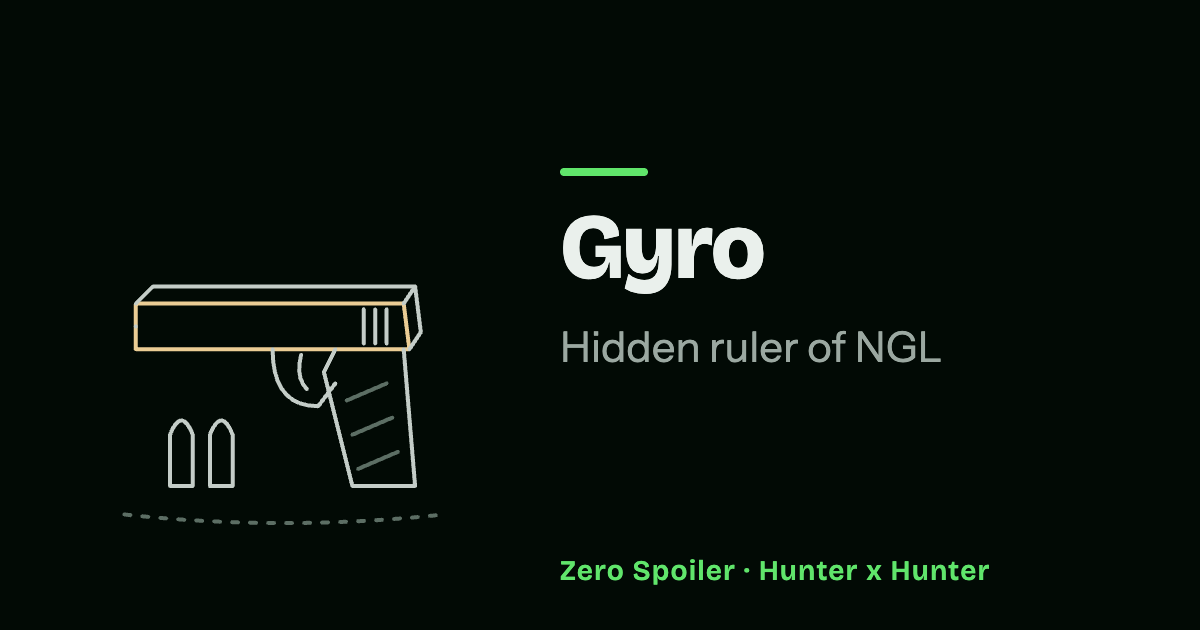
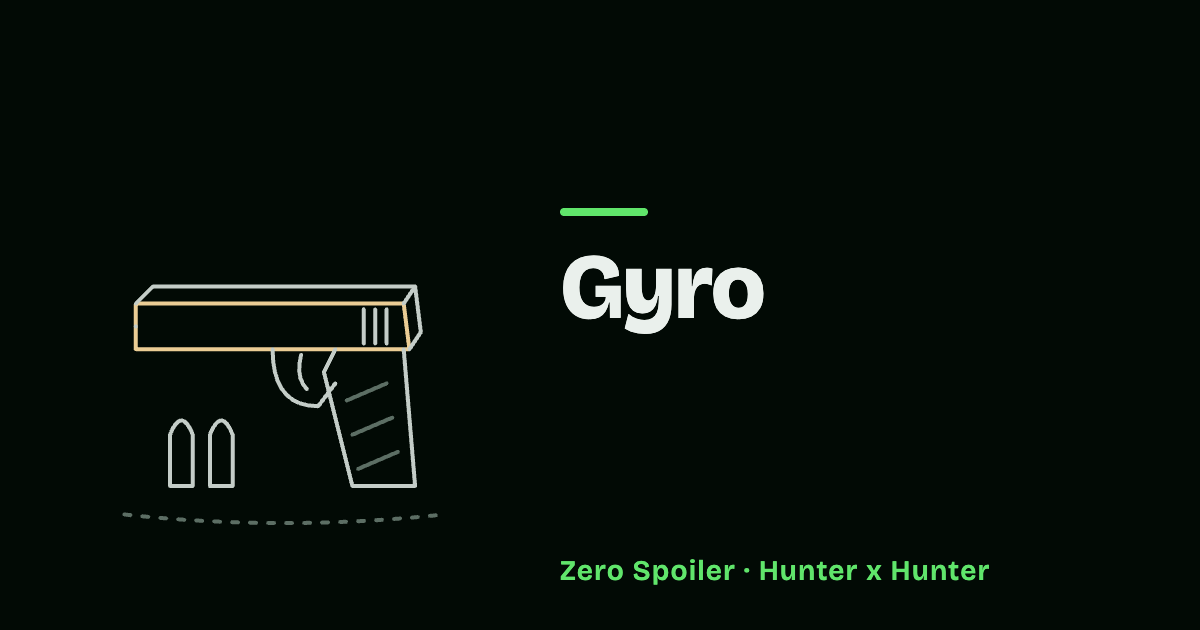
fix(hunter-x-hunter): open Gyro's anime facts at the episode that tells them (#1246)

Changed region(s): [[0.4625, 0.3317, 0.7708, 0.573], [0.4625, 0.2413, 0.555, 0.3016]]

diff --git a/src/data/series/hunter-x-hunter/records/chimera-ant-hunters.ts b/src/data/series/hunter-x-hunter/records/chimera-ant-hunters.ts
@@ -572,7 +572,11 @@ export const CHIMERA_ANT_HUNTERS: Pick<HunterSaga, 'dossiers' | 'entries'> = {
     },
     // The gunmen name him as their king in episode 78, which the anime
     // invents; the manga's caption names him as NGL's kingpin in chapter 203.
-    // The frozen texts keep to what both tell.
+    // The frozen texts keep to episode 78's gunmen, which the manga's kingpin
+    // of a gun-running cartel (chapters 192, 203) does not contradict, and
+    // name no country. Episode 78 never ties him to
+    // NGL: the anime does so in his past, episode 80 (chapter 204's story),
+    // so the NGL role and affiliation wait there for an episode reader.
     'gyro': {
       chronicle: chimeraAntPhase2Chronicles.gyro,
       relationships: [
@@ -594,22 +598,34 @@ export const CHIMERA_ANT_HUNTERS: Pick<HunterSaga, 'dossiers' | 'entries'> = {
           ],
         },
       ],
-      role: { it: 'Capo nascosto di NGL', en: 'Hidden ruler of NGL' },
+      role: [
+        {
+          episode: 78,
+          chapter: 203,
+          value: { it: 'Capo degli uomini armati', en: 'Leader of the gunmen' },
+        },
+        {
+          episode: 78,
+          chapter: 203,
+          source: 'chapter',
+          value: { it: 'Capo nascosto di NGL', en: 'Hidden ruler of NGL' },
+        },
+        {
+          episode: 80,
+          chapter: 204,
+          source: 'episode',
+          value: { it: 'Capo nascosto di NGL', en: 'Hidden ruler of NGL' },
+        },
+      ],
       log: {
-        it: 'Gli uomini armati di NGL prendevano ordini da lui.',
-        en: 'NGL’s gunmen took their orders from him.',
+        it: 'I suoi uomini armati prendevano ordini da lui.',
+        en: 'His gunmen took their orders from him.',
       },
       // Episode 79's commander found dead at his desk is tied to him only by
       // the wiki's link, and the manga has him reborn as an ant, so no death
       // is filed until an owner check of the episode settles it.
       status: [{ episode: 78, chapter: 203, value: 'alive' }],
       affiliation: [
-        {
-          episode: 78,
-          chapter: 203,
-          source: 'episode',
-          value: { it: 'NGL', en: 'NGL' },
-        },
         // The manga alone, at its gate: eaten by the Queen, reborn as one of
         // her soldiers, he keeps his memories and leaves the nest.
         {
@@ -620,6 +636,12 @@ export const CHIMERA_ANT_HUNTERS: Pick<HunterSaga, 'dossiers' | 'entries'> = {
             it: 'Formichimera che ha lasciato la regina',
             en: 'Chimera Ant who left the Queen',
           },
+        },
+        {
+          episode: 80,
+          chapter: 204,
+          source: 'episode',
+          value: { it: 'NGL', en: 'NGL' },
         },
       ],
     },
@@ -748,8 +770,8 @@ export const CHIMERA_ANT_HUNTERS: Pick<HunterSaga, 'dossiers' | 'entries'> = {
       unanchored: true,
       name: { it: 'Giairo', en: 'Gyro' },
       summary: {
-        it: 'Il capo nascosto di NGL, i cui uomini armati hanno affrontato le formichimere.',
-        en: 'NGL’s hidden ruler, whose armed men took on the Chimera Ants.',
+        it: 'Un capo i cui uomini armati hanno affrontato le formichimere.',
+        en: 'A leader whose gunmen took on the Chimera Ants.',
       },
       visual: { art: 'gyro', tint: 'sand' },
     },

diff --git a/src/server/archive/chimeraAnt.test.ts b/src/server/archive/chimeraAnt.test.ts
@@ -548,13 +548,38 @@ const PHASE_TWO_STEPS: Step[] = [
     chapter: 200,
     value: 'alive',
   },
+  // Episode 78 never ties him to NGL; his past at episode 80 does (#1234).
   {
     id: 'gyro',
     field: 'affiliation',
+    episode: 80,
+    chapter: 204,
+    only: 'episode',
+    value: { it: 'NGL', en: 'NGL' },
+  },
+  {
+    id: 'gyro',
+    field: 'role',
     episode: 78,
     chapter: 203,
     only: 'episode',
-    value: { it: 'NGL', en: 'NGL' },
+    value: { it: 'Capo degli uomini armati', en: 'Leader of the gunmen' },
+  },
+  {
+    id: 'gyro',
+    field: 'role',
+    episode: 80,
+    chapter: 204,
+    only: 'episode',
+    value: { it: 'Capo nascosto di NGL', en: 'Hidden ruler of NGL' },
+  },
+  {
+    id: 'gyro',
+    field: 'role',
+    episode: 78,
+    chapter: 203,
+    only: 'chapter',
+    value: { it: 'Capo nascosto di NGL', en: 'Hidden ruler of NGL' },
   },
   {
     id: 'gyro',
@@ -1423,6 +1448,28 @@ describe.each(
     })
   },
 )
+
+/** Gyro's whole page for an episode reader, as one string. */
+function gyroAt(episode: number, locale: Locale): string {
+  const reader = readerFor(archive, at('episode', episode), locale)
+
+  expect(opened('gyro', false, reader)).toBe(true)
+
+  return JSON.stringify(characterPage('gyro', reader))
+}
+
+describe('Gyro before the anime ties him to NGL', () => {
+  // Episode 78 tells only his gunmen; his past at episode 80 makes him NGL's
+  // ruler (#1234). His summary, log and episode-78 story are frozen texts no
+  // step replaces, so the whole page is asked.
+  it.each(LOCALES)(
+    'names no NGL on his page until episode 80 in %s',
+    (locale) => {
+      expect(gyroAt(79, locale)).not.toContain('NGL')
+      expect(gyroAt(80, locale)).toContain('NGL')
+    },
+  )
+})
 
 describe.each([
   { id: 'neferpitou', episode: 131, chapter: 307 },

diff --git a/src/data/series/hunter-x-hunter/records/chimera-ant-phase-2.chronicle.ts b/src/data/series/hunter-x-hunter/records/chimera-ant-phase-2.chronicle.ts
@@ -318,10 +318,10 @@ export const chimeraAntPhase2Chronicles = {
       episode: 78,
       chapter: 203,
       value: {
-        title: { it: 'Il capo nascosto di NGL', en: 'NGL’s hidden ruler' },
+        title: { it: 'Il re degli uomini armati', en: 'The gunmen’s king' },
         body: {
-          it: 'Giairo è il capo nascosto di NGL. I suoi uomini armati ricevono l’ordine di eliminare le formiche che attaccano gli abitanti. Nella nazione che vieta la tecnologia, il gruppo usa armi da fuoco contro gli insetti. La resistenza umana colpisce alcuni soldati della colonia, ma le formichimere continuano a espandersi nel paese.',
-          en: 'Gyro is NGL’s hidden ruler. His armed followers receive orders to eliminate the ants attacking the inhabitants. In a nation that forbids technology, his group uses firearms against the insects. The human resistance kills some of the colony’s soldiers, but the Chimera Ants continue spreading through the country.',
+          it: 'In un villaggio, uomini armati chiamano Giairo il loro re. Da lui ricevono l’ordine di eliminare le formiche che attaccano gli abitanti, e sparano contro gli insetti. La resistenza umana colpisce alcuni soldati della colonia, ma le formichimere continuano a espandersi nel paese.',
+          en: 'In a village, gunmen call Gyro their king. They receive orders from him to eliminate the ants attacking the inhabitants, and they fire on the insects. The human resistance kills some of the colony’s soldiers, but the Chimera Ants continue spreading through the country.',
         },
       },
       source: 'episode',

diff --git a/docs/content-provenance/hunter-x-hunter-chimera-ant-phase-2.md b/docs/content-provenance/hunter-x-hunter-chimera-ant-phase-2.md
@@ -34,7 +34,7 @@
 | Disposition                     | Candidates                                                                                                                                                                                               | Gate (chapter / episode) or reason                                                                                                     |
 | ------------------------------- | -------------------------------------------------------------------------------------------------------------------------------------------------------------------------------------------------------- | -------------------------------------------------------------------------------------------------------------------------------------- |
 | Filed, hunters                  | Knov, Morel, Palm, Knuckle, Shoot                                                                                                                                                                        | Knov 200 / 86. Morel 199 / 86. Palm, Knuckle and Shoot 200 / 86.                                                                       |
-| Filed, hunters                  | Gyro                                                                                                                                                                                                     | 203 / 78. The anime names him in an added scene, so he is unanchored.                                                                  |
+| Filed, hunters                  | Gyro                                                                                                                                                                                                     | 203 / 78. The anime names him in an added scene, so he is unanchored. It ties him to NGL only at episode 80, his past (#1234).         |
 | Filed, hunters                  | Dr. Lee                                                                                                                                                                                                  | 215, manga only.                                                                                                                       |
 | Filed, survey and NGL           | Lin Koshi, Podungo Lapoy                                                                                                                                                                                 | 186 / 77.                                                                                                                              |
 | Filed, survey and NGL           | Wong, Kurt, Haruna                                                                                                                                                                                       | 77, anime only (Haruna is never named in the manga).                                                                                   |
@@ -147,4 +147,6 @@ Orientale", against the 2011 dub.
 ### Gyro
 
 - Whether the commander found dead in episode 79 is Gyro.
+- Whether episode 78 or 79 ties him to NGL on screen; the synopses do not, so
+  the anime's NGL role and affiliation open at episode 80 (#1234).
 - Whether episodes 80 and 86 tell his rebirth.

diff --git a/docs/chronicle-verification.md b/docs/chronicle-verification.md
@@ -2920,7 +2920,7 @@ held to: every story below has a row, and every row below has a story.
 
 | Entry (en title)       | Episode | Fandom page that settles it                             | Note                                                                                                                                  |
 | ---------------------- | ------: | ------------------------------------------------------- | ------------------------------------------------------------------------------------------------------------------------------------- |
-| NGL’s hidden ruler     |      78 | https://hunterxhunter.fandom.com/wiki/Episode_78_(2011) | Read the MediaWiki API synopses: Episode 78 (2011).                                                                                   |
+| The gunmen’s king      |      78 | https://hunterxhunter.fandom.com/wiki/Episode_78_(2011) | Read the MediaWiki API synopses: Episode 78 (2011).                                                                                   |
 | The will that survives |      78 | https://hunterxhunter.fandom.com/wiki/Chapter_203       | Read the MediaWiki API synopses: Chapter 203. Gyro is unanchored78/203. The manga-only rebirth is not disclosed in the anime opening. |
 | Childhood and the drug |      80 | https://hunterxhunter.fandom.com/wiki/Episode_80_(2011) | Read the MediaWiki API synopses: Episode 80 (2011), Chapter 204.                                                                      |
 
